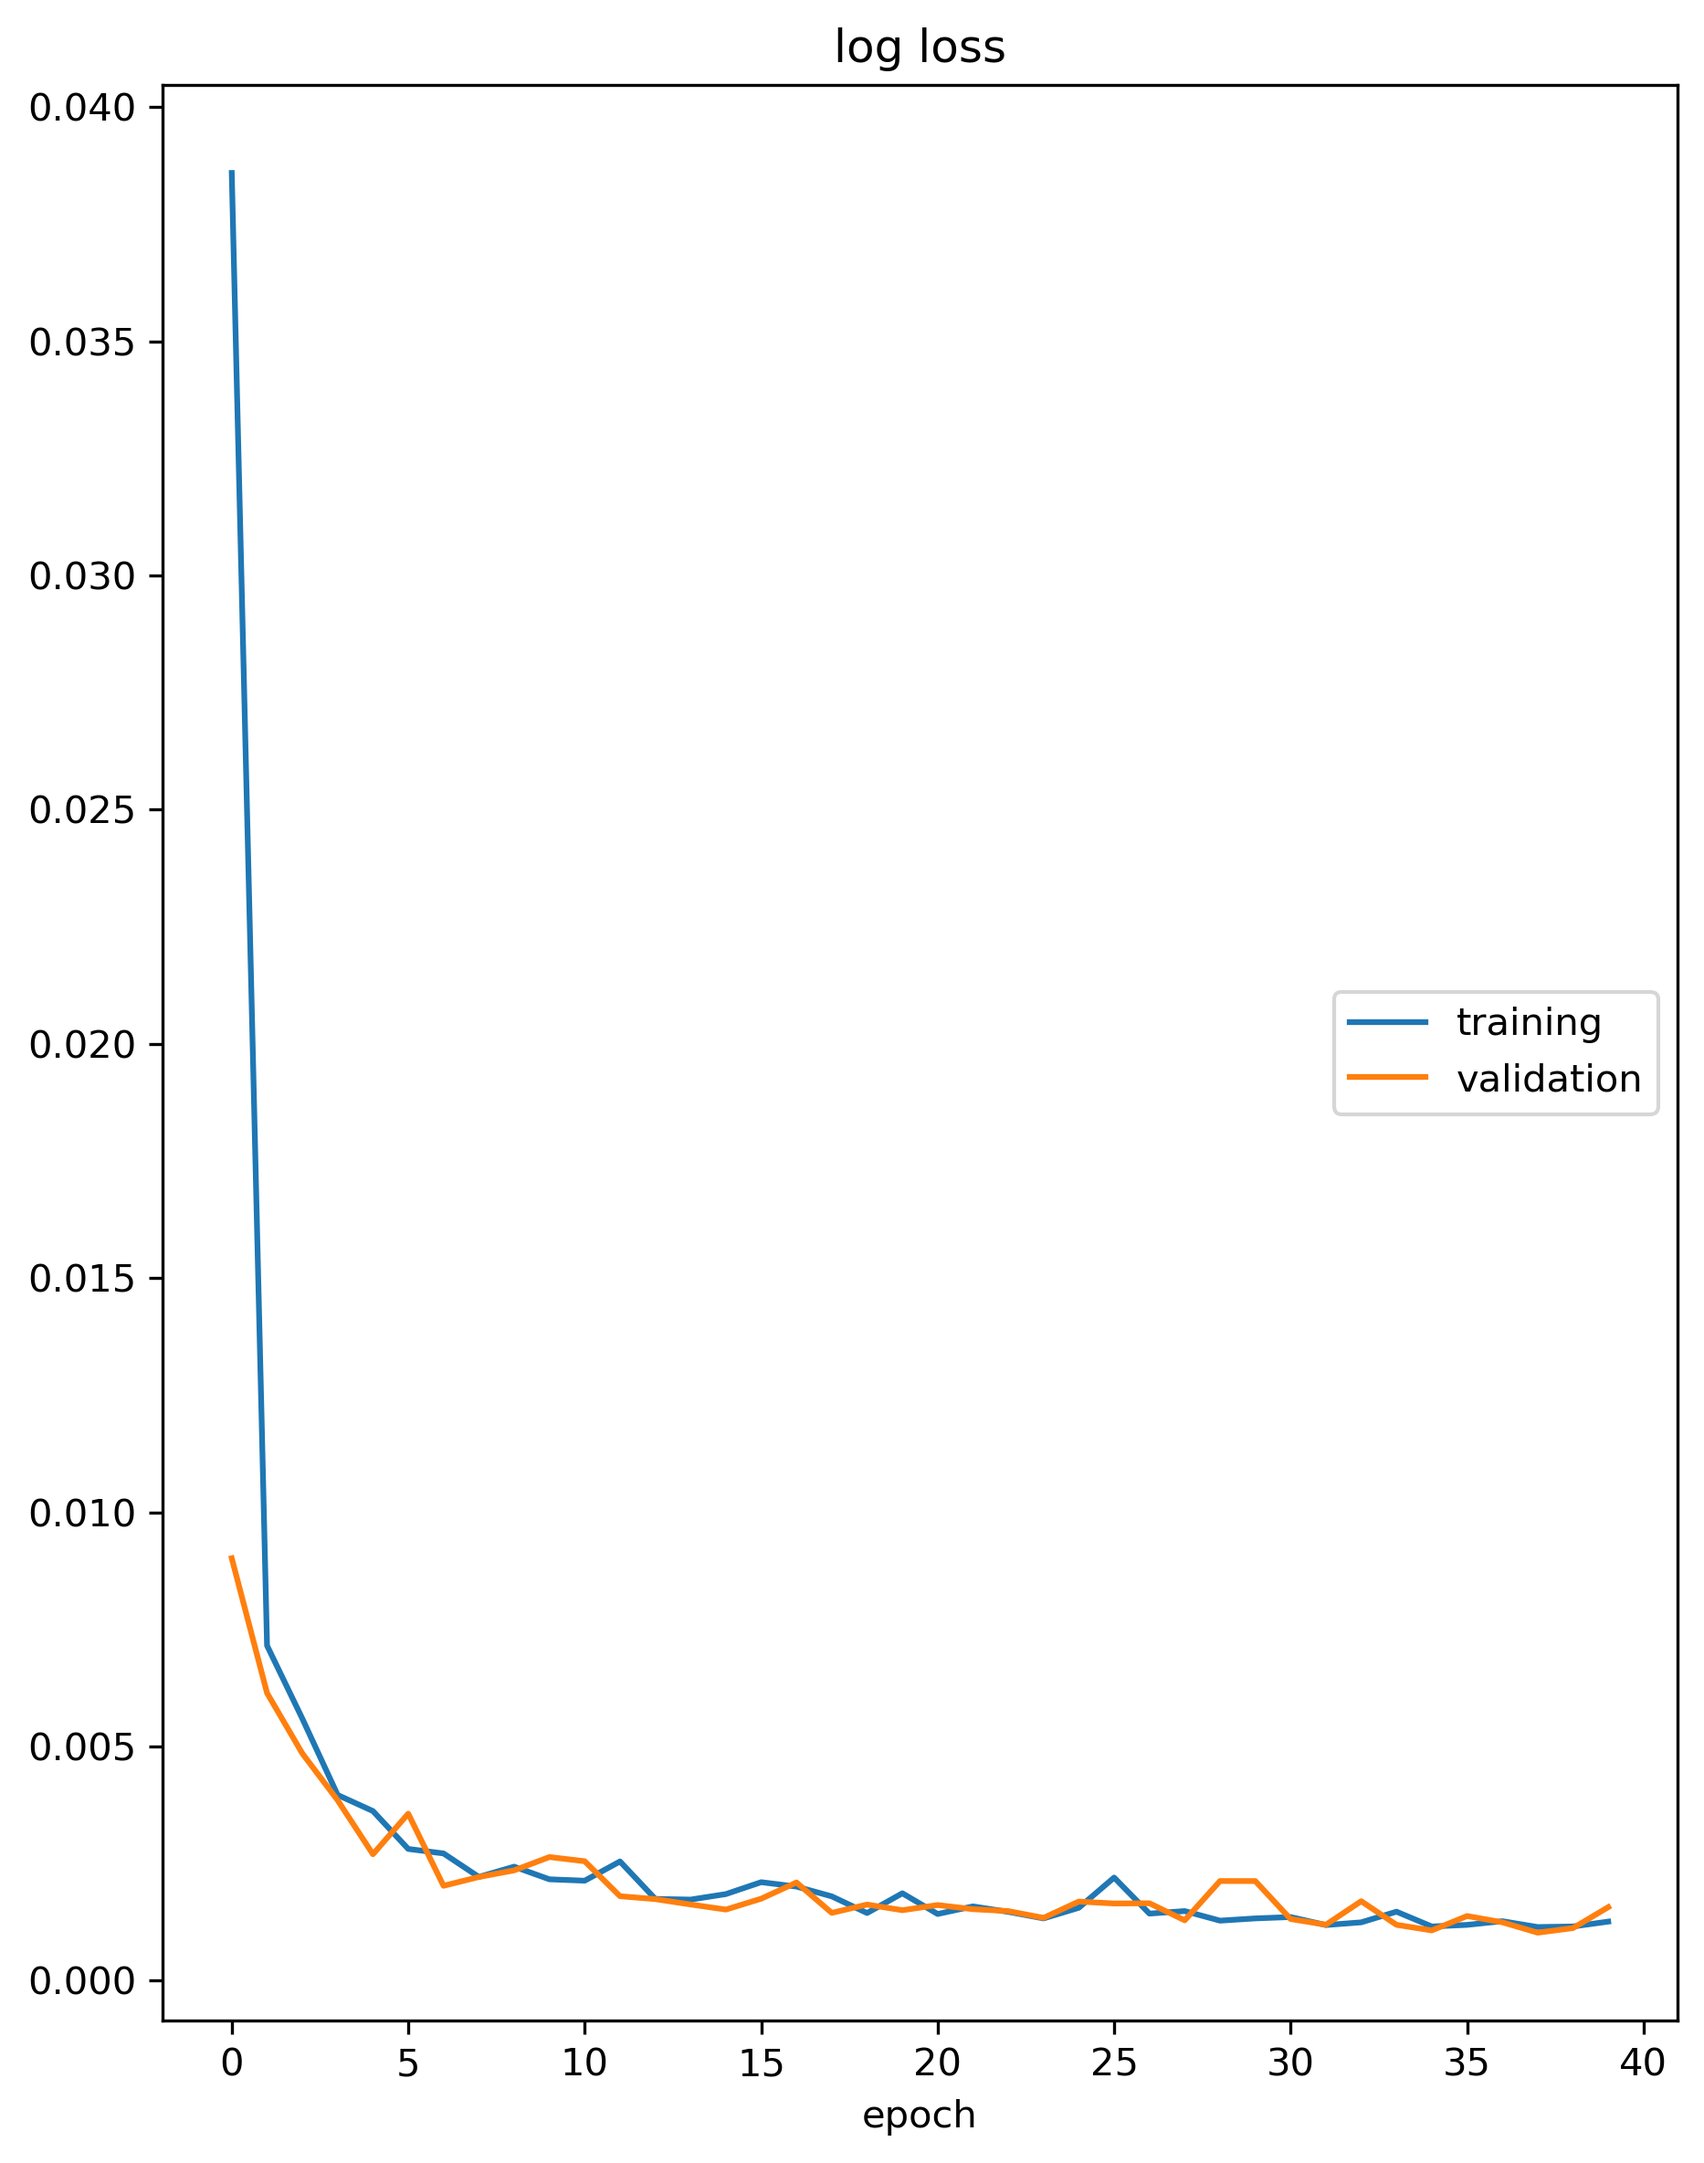
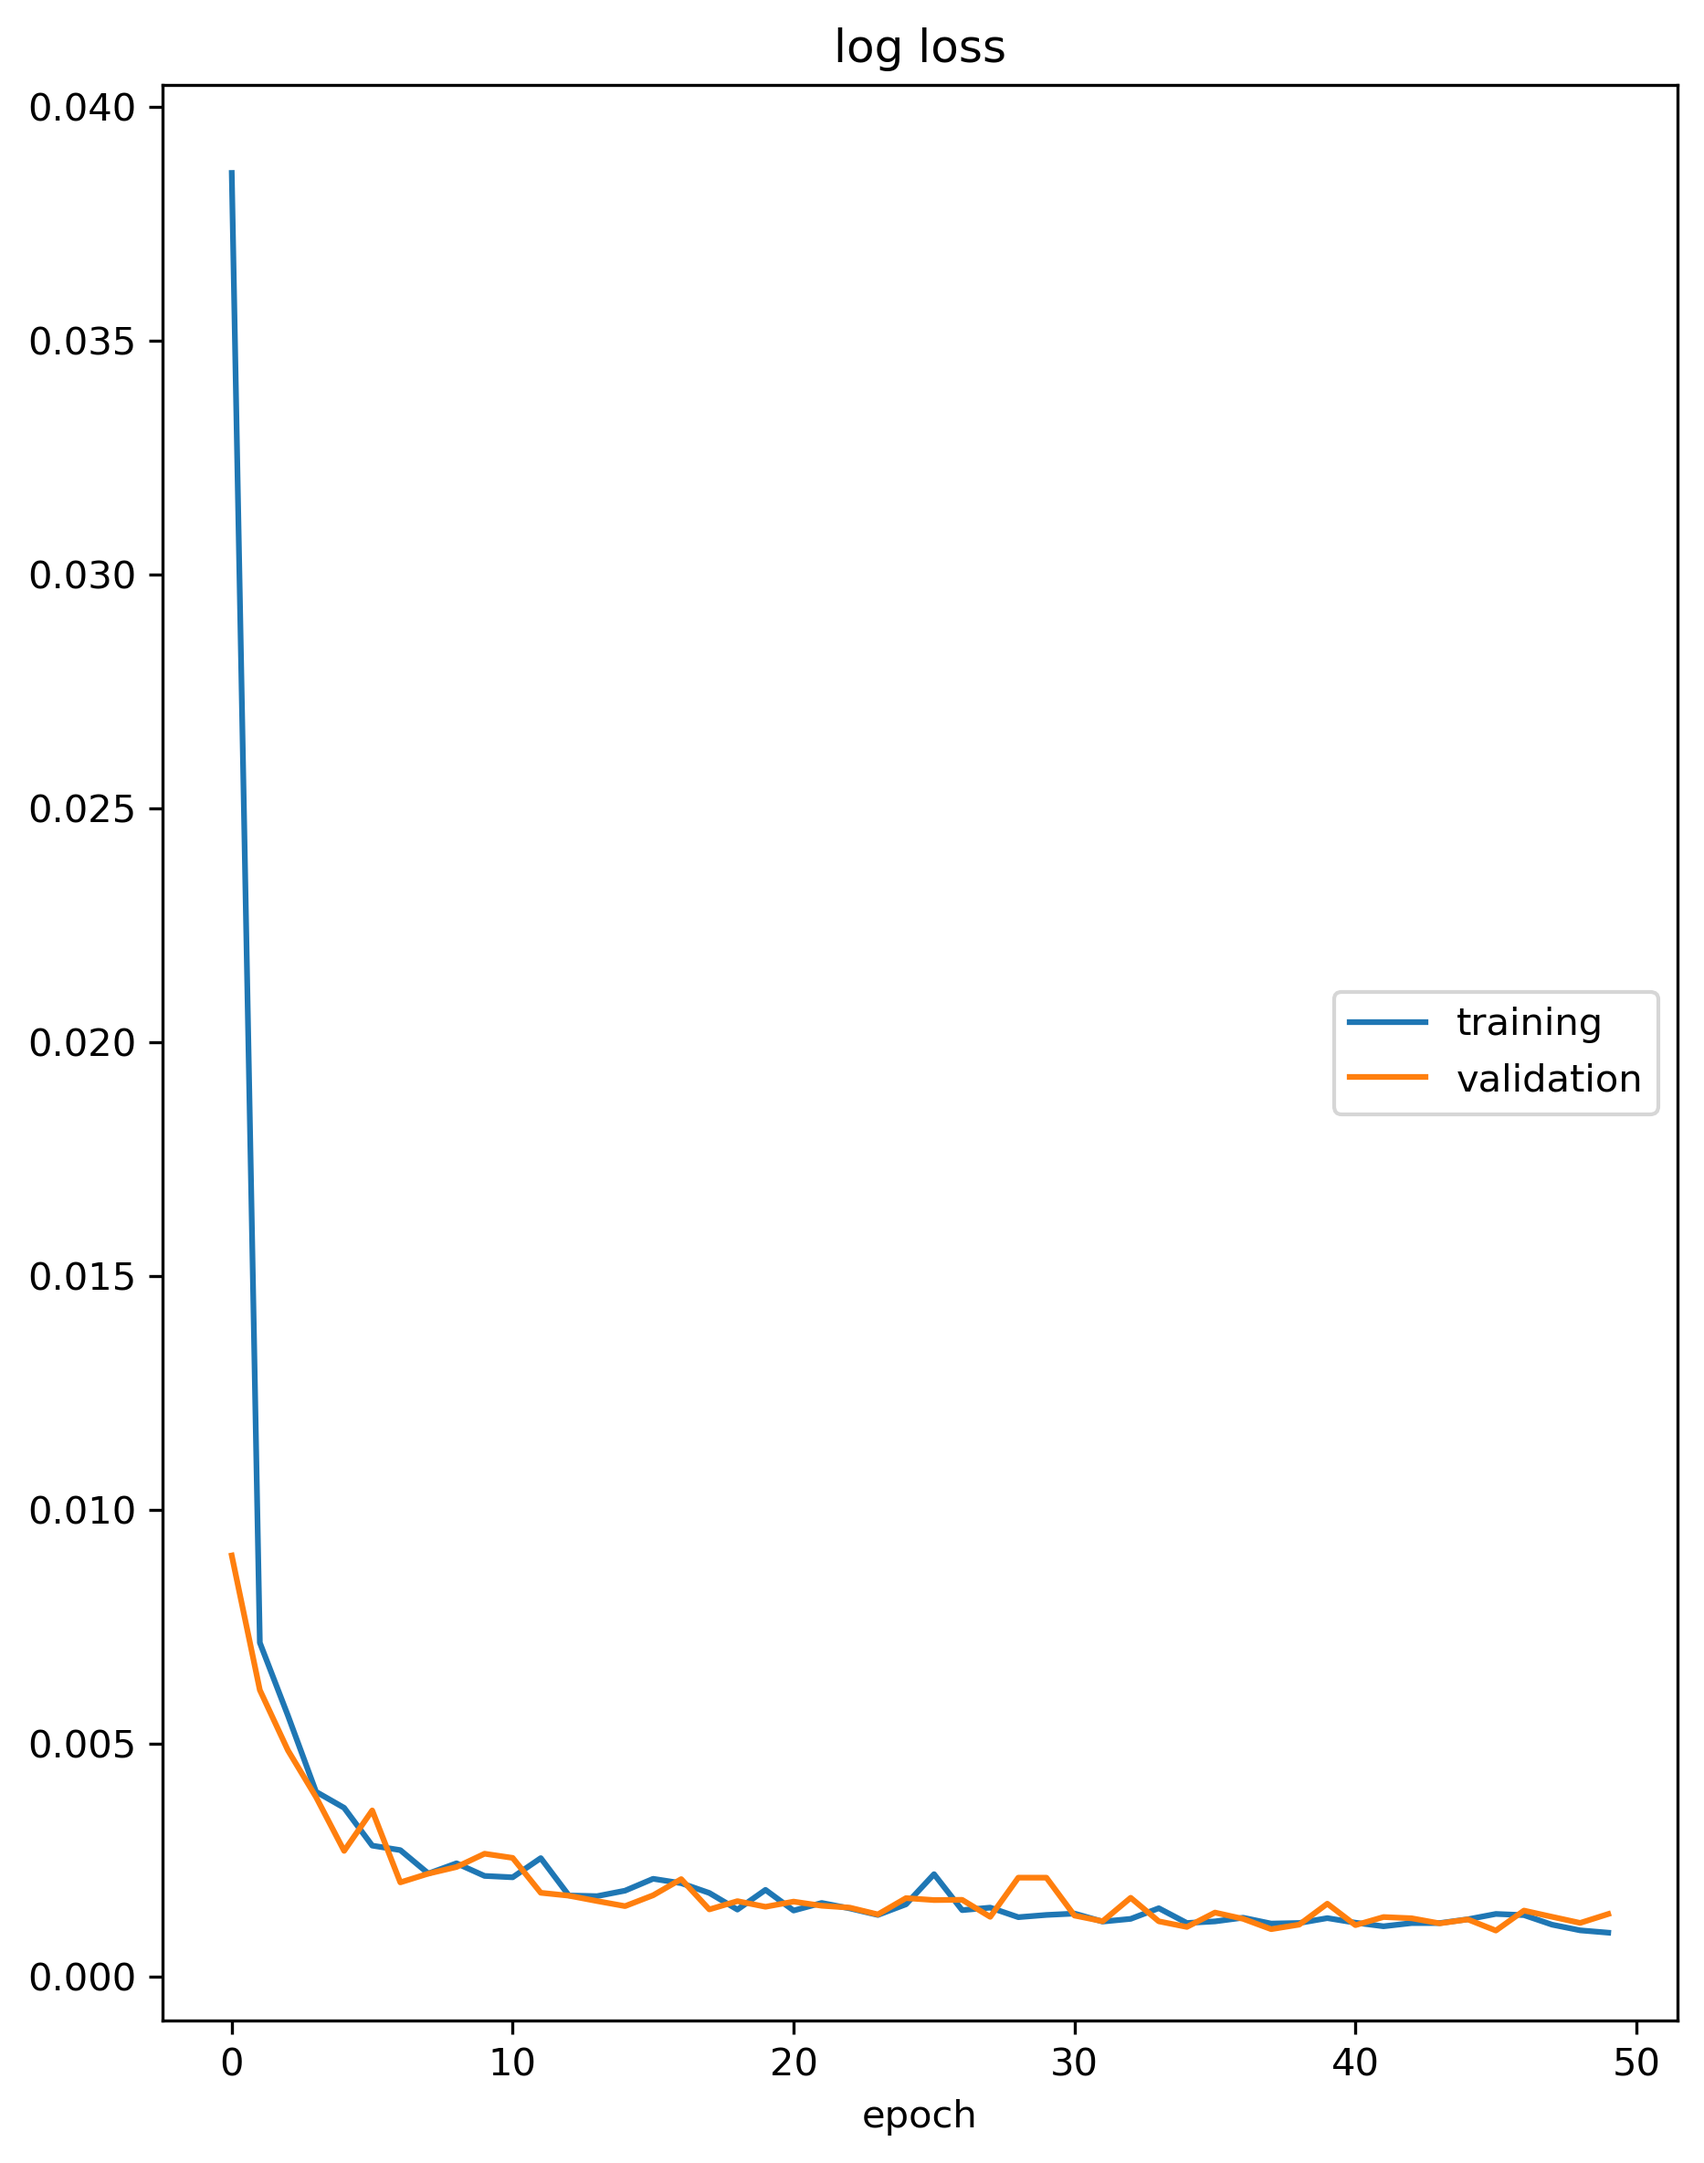
changes fistensor(swin v15)

diff --git a/deep-learning-dose-activity-dictionary/dad-nn.py b/deep-learning-dose-activity-dictionary/dad-nn.py
@@ -107,7 +107,7 @@ test_size = len(dataset) - train_size - val_size
 train_dataset, val_dataset, test_dataset = torch.utils.data.random_split(dataset, [train_size, val_size, test_size])
 
 # Create DataLoaders for training
-batch_size = 4
+batch_size = 1
 num_workers = 4
 train_loader = DataLoader(train_dataset, batch_size=batch_size, shuffle=True, num_workers=num_workers)
 val_loader = DataLoader(val_dataset, batch_size=batch_size, shuffle=False, num_workers=num_workers)
@@ -118,16 +118,16 @@ from models.SwinUNETR import SwinUNETR
 patches = False
 model = SwinUNETR(img_size=img_size, in_channels=in_channels, out_channels=1).to(device)
 
-model_dir = 'models/trained-models/SwinUNETR-v14.pth'
-timing_dir = 'models/training-times/training-time-SwinUNETR-v14.txt'
-losses_dir = 'models/losses/SwinUNETR-v14-loss.csv'
+model_dir = 'models/trained-models/SwinUNETR-v15.pth'
+timing_dir = 'models/training-times/training-time-SwinUNETR-v15.txt'
+losses_dir = 'models/losses/SwinUNETR-v15-loss.csv'
 n_epochs = 50
-save_plot_dir = "images/SwinUNETR-v14-loss.png"
-trained_model = train(model, train_loader, val_loader, epochs=n_epochs, mean_output=mean_output, std_output=std_output,
-                      model_dir=model_dir, timing_dir=timing_dir, save_plot_dir=save_plot_dir, losses_dir=losses_dir)
+save_plot_dir = "images/SwinUNETR-v15-loss.png"
+# trained_model = train(model, train_loader, val_loader, epochs=n_epochs, mean_output=mean_output, std_output=std_output,
+#                       model_dir=model_dir, timing_dir=timing_dir, save_plot_dir=save_plot_dir, losses_dir=losses_dir)
 
 # Loading the trained model
-model_dir = "models/trained-models/SwinUNETR-v14.pth"
+model_dir = "models/trained-models/SwinUNETR-v15.pth"
 trained_model = torch.load(model_dir, map_location=torch.device(device))
 
 
@@ -154,23 +154,23 @@ trained_model = torch.load(model_dir, map_location=torch.device(device))
 plot_loader = test_loader
 
 # Plotting slices of the dose
-save_plot_dir = "images/SwinUNETR-v14-sample.png"
+save_plot_dir = "images/SwinUNETR-v15-sample.png"
 plot_slices(trained_model, plot_loader, device, CT_flag=CT_flag, CT_manual=CT, 
             mean_input=mean_input, std_input=std_input, mean_output=mean_output, std_output=std_output,
             save_plot_dir=save_plot_dir, patches=patches) 
  
 # Plotting the dose-depth profiles
-save_plot_dir = "images/SwinUNETR-v14-ddp.png"
+save_plot_dir = "images/SwinUNETR-v15-ddp.png"
 plot_ddp(trained_model, plot_loader, device, mean_output=mean_output,
          std_output=std_output, save_plot_dir=save_plot_dir, patches=patches, patch_size=img_size[2]//2)
 
-results_dir = 'models/test-results/SwinUNETR-v14-results.txt'
-save_plot_dir = 'images/SwinUNETR-v14-range-hist.png'
+results_dir = 'models/test-results/SwinUNETR-v15-results.txt'
+save_plot_dir = 'images/SwinUNETR-v15-range-hist.png'
 test(trained_model, test_loader, device, results_dir=results_dir, mean_output=mean_output, std_output=std_output, save_plot_dir=save_plot_dir)
 
 # dose2act_model_dir = "models/trained-models/reverse-SwinUNETR-v1.pth"
 # dose2act_model = torch.load(dose2act_model_dir, map_location=torch.device(device))
-# act2dose_model_dir = "models/trained-models/SwinUNETR-v14.pth"
+# act2dose_model_dir = "models/trained-models/SwinUNETR-v15.pth"
 # act2dose_model = torch.load(act2dose_model_dir, map_location=torch.device(device))
 # back_and_forth(dose2act_model, act2dose_model, plot_loader, device, reconstruct_dose=False, num_cycles=1, y_slice=32, 
 #                mean_act=mean_input, std_act=std_input, mean_dose=mean_output, std_dose=std_output, save_plot_dir="images/reconstructed_act_blob_1cycle.png")

diff --git a/deep-learning-dose-activity-dictionary/train_model.py b/deep-learning-dose-activity-dictionary/train_model.py
@@ -17,7 +17,7 @@ def train(model, train_loader, val_loader, epochs=10, model_dir='.', timing_dir 
     l2_loss = nn.MSELoss()
     beta = 2e-2
     threshold = 0.2
-    alpha = 0 / 1000  # ratio between the losses
+    alpha = 100 / 1000  # ratio between the losses
     training_losses = []
     val_losses = [] 
     for epoch in range(epochs):
@@ -32,10 +32,9 @@ def train(model, train_loader, val_loader, epochs=10, model_dir='.', timing_dir 
             batch_target = batch_target.to(device)
             optim.zero_grad()  # resetting gradients
             batch_output = model(batch_input)  # generating images
-            loss = l2_loss(batch_output, batch_target)
             if epoch * batch_target.shape[0] + batch > 150 and beta < 5:
                 beta = beta * 1.03
-            # loss = (1-alpha) * l2_loss(batch_output, batch_target) + alpha * (1 - gamma_index(batch_output, batch_target, beta=beta, mean_output=mean_output, std_output=std_output, threshold=threshold))
+            loss = (1-alpha) * l2_loss(batch_output, batch_target) + alpha * (1 - gamma_index(batch_output, batch_target, beta=beta, mean_output=mean_output, std_output=std_output, threshold=threshold))
             loss.backward()  # backprop
             optim.step()
             train_loss += loss.item()
@@ -49,8 +48,7 @@ def train(model, train_loader, val_loader, epochs=10, model_dir='.', timing_dir 
                 batch_input = batch_input.to(device)
                 batch_target = batch_target.to(device)
                 batch_output = model(batch_input)
-                loss = l2_loss(batch_output, batch_target)
-                # loss = (1-alpha) * l2_loss(batch_output, batch_target) + alpha * (1 - gamma_index(batch_output, batch_target, beta=beta, mean_output=mean_output, std_output=std_output, threshold=threshold))
+                loss = (1-alpha) * l2_loss(batch_output, batch_target) + alpha * (1 - gamma_index(batch_output, batch_target, beta=beta, mean_output=mean_output, std_output=std_output, threshold=threshold))
                 val_loss += loss.item()
 
         # Calculate average losses (to make it independent of batch size)
